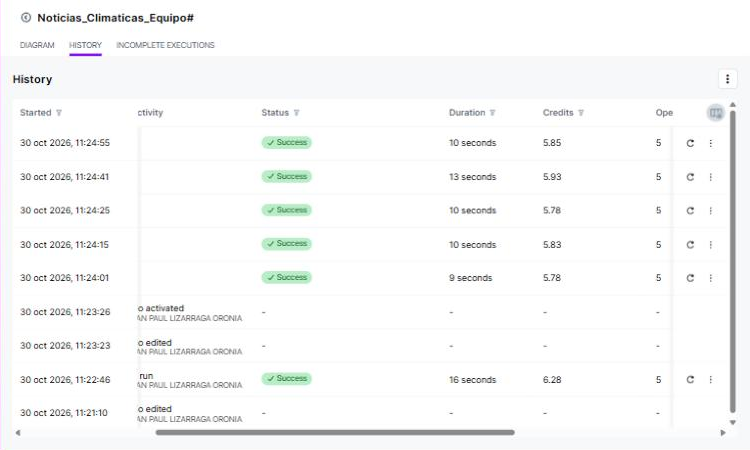
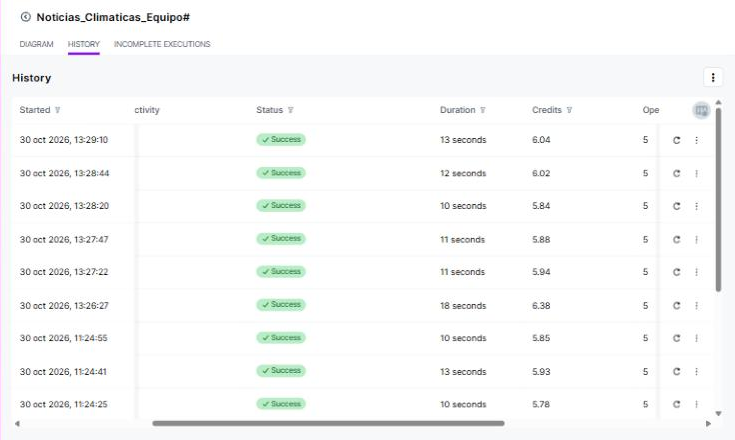
Agrega capturas de la página publicada, historial y resultados actualizados
Claude-Session: https://claude.ai/code/session_01X3CYwDySQS7y4qng3ZaQQM

diff --git a/README.md b/README.md
@@ -125,7 +125,7 @@ La página se generó con IA usando el prompt de la Actividad 3. Es un solo arch
 
 ## 6. Prueba de los 6 temas
 
-Se probaron los 6 temas desde la página publicada en GitHub Pages. Todos respondieron con el formato pedido, en **9 a 14 segundos**.
+Primero se probaron los 6 temas durante la construcción (11:24 h) y después **desde la página publicada en GitHub Pages** (13:26 h). Todos respondieron en **10 a 18 segundos**. Las capturas son de la página publicada.
 
 ![Buscando y resumiendo noticias](imagenes/03_buscando_noticias.png)
 
@@ -140,12 +140,23 @@ Se probaron los 6 temas desde la página publicada en GitHub Pages. Todos respon
 
 | Tema | De qué trató el resumen | ¿Qué puedo hacer yo? (IA) |
 |------|-------------------------|---------------------------|
-| cambio climático | Leyes en el Senado, muertes por calor y efectos en la salud y la economía (chocolate y El Niño). | Proponer en el campus ahorro de energía y reducción de residuos. |
-| huracanes Pacífico mexicano | La tormenta Vance y su trayectoria hacia Sinaloa, y la rápida intensificación de huracanes en el Pacífico. | Difundir las recomendaciones de Protección Civil y tener un plan de emergencia. |
-| deforestación México | Los 85.3 millones de dólares del Fondo Verde para el Clima y las 178,000 ha deforestadas al año. | Proponer un proyecto de reforestación cerca del campus. |
-| reciclaje | Proyectos universitarios, programas oficiales y el intercambio de basura por pasajes ("Recarga Verde"). | Organizar una campaña de reciclaje en la escuela. |
-| energías renovables México | La meta de 38 % de energía limpia para 2030 y nuevos proyectos renovables en evaluación. | Crear un club de energías renovables en el campus. |
-| sequía Sinaloa | Suspensión del suministro de agua, reparto de agua potable y programas contra la sequía. | Campaña de ahorro de agua y detección de fugas en el campus. |
+| cambio climático | Salud pública, ciudades, economía y el papel de los jóvenes; muertes por calor y el chocolate en Día de Muertos. | Participar en un proyecto de sensibilización climática en el campus. |
+| huracanes Pacífico mexicano | La tormenta Vance y su trayectoria, la rápida intensificación de huracanes y la posible formación de Winnie. | Hacer un simulacro o un plan de acción ante huracanes con la familia. |
+| deforestación México | Los 85.3 millones de dólares del Fondo Verde para el Clima y las 178,000 ha deforestadas al año. | Ser voluntario en un programa de reforestación. |
+| reciclaje | Proyectos universitarios, programas oficiales, el intercambio de basura por pasajes ("Recarga Verde") y reciclaje en minería y hostelería. | Participar en un programa de reciclaje del campus o la comunidad. |
+| energías renovables México | La meta de 38 % de energía limpia para 2030, inversiones y proyectos en evaluación ambiental. | Evaluar el consumo de energía del campus y proponer medidas de eficiencia. |
+| sequía Sinaloa | Suspensión del suministro de agua, reparto de agua potable en 16 municipios y programas contra la sequía. | Ahorrar agua en casa y en el campus y reportar fugas. |
+
+### Errores de formato de la IA
+
+Aunque las instrucciones pedían un formato fijo, en la prueba desde la página publicada la IA cometió varios errores:
+
+- En **4 de los 6 temas agregó una "noticia 6"**, aunque el RSS solo trae 5. En *huracanes* repitió una nota y en *reciclaje* escribió "[Sin título específico adicional en la lista]". En *sequía Sinaloa* puso "(Se puede considerar como referencia adicional)" y en *cambio climático* "Current date – noticia adicional: ENLACE". Esto rompe la regla de **no agregar noticias que no estén en la lista**.
+- En *cambio climático* copió literalmente el texto de la plantilla, **"1 línea explicando por qué importa"**, en lugar de explicarlo.
+- En *deforestación* puso el enlace en la misma línea que la explicación. Por eso la página no lo convirtió en enlace, porque solo convierte las líneas que **empiezan** con `http`.
+- En *reciclaje* dejó un pedazo de enlace suelto después de la noticia 4.
+
+En la primera prueba de la mañana estos errores casi no aparecieron. La misma IA con las mismas instrucciones no siempre responde igual.
 
 ## 7. Verificación de la IA contra las fuentes
 
@@ -161,11 +172,11 @@ De 3 temas distintos se abrió una noticia original y se comparó con lo que dij
 - En la sequía la IA **exageró**: 26 % no es "gran parte", y cambió el sentido de una nota que habla de mejora.
 - En la deforestación fue fiel, pero **no dio las cifras**; solo dijo que la nota "aporta una cifra". Además, 3 de las 5 noticias eran la misma (los 85.3 millones de dólares) publicada por distintos medios.
 - Varias noticias **no eran del día**: la de la sequía era de julio y la de la deforestación de agosto. Google News ordena el RSS por relevancia, no por fecha, y la IA las presentó como "noticias recientes".
-- En *cambio climático*, un enlace salió cortado al final, así que puede no abrir.
+- En la segunda prueba (desde la página publicada) la IA describió mejor la sequía: "a pesar de mejoras, una parte significativa continúa bajo sequía". La misma noticia puede resumirse bien o mal según la ejecución.
 
 ### Créditos
 
-Según el historial del escenario, cada consulta consume **5 operaciones** y entre **5.78 y 5.93 créditos**, unos **5.8 por tema**. Tarda de 9 a 13 segundos. La primera prueba con **Run once** gastó 6.28 créditos.
+Según el historial del escenario, cada consulta consume **5 operaciones** y entre **5.78 y 6.38 créditos**, unos **5.9 por tema**. Tarda de 9 a 18 segundos. La primera prueba con **Run once** gastó 6.28 créditos. En total, las 12 consultas más la prueba con Run once gastaron unos 77 créditos.
 
 ![Historial del escenario con los créditos por consulta](imagenes/10_historial_creditos.png)
 
@@ -175,7 +186,7 @@ Según el historial del escenario, cada consulta consume **5 operaciones** y ent
 **Reciclaje** tuvo más noticias en la semana (90), seguido de **cambio climático** (82). Los que menos tuvieron fueron **sequía Sinaloa** (3) y **deforestación México** (6). Otros temas como *olas de calor México*, *desertificación* o *manglares Sinaloa* no tuvieron ninguna. Los medios cubren más los temas generales y los que tienen una noticia del momento, como un premio, una ley o una tormenta. Los problemas lentos y locales, como la sequía o la pérdida de bosques y manglares, casi no aparecen, aunque nos afectan todos los días. La atención de los medios no depende de qué tan grave es un problema, sino de qué tan "noticia" es ese día.
 
 **2. ¿Los resúmenes de la IA fueron fieles a las noticias originales? ¿Qué riesgos tiene difundir información resumida por IA sin verificarla?**
-**En su mayoría sí**: de 3 noticias verificadas, una fue fiel, otra fiel pero vaga y otra **exagerada**: dijo que "gran parte" de Sinaloa sigue seca cuando la fuente dice 26 % y habla de una mejora. Además, presentó como recientes noticias de hace meses. El riesgo es difundir datos exagerados o viejos como si fueran de hoy. Eso puede causar alarma o desconfianza, y al compartirse sin revisar el error se multiplica. Por eso la página muestra los enlaces a las fuentes: el resumen sirve para orientar, pero hay que leer la nota original antes de compartir un dato.
+**En su mayoría sí**: de 3 noticias verificadas, una fue fiel, otra fiel pero vaga y otra **exagerada**: dijo que "gran parte" de Sinaloa sigue seca cuando la fuente dice 26 % y habla de una mejora. Además, presentó como recientes noticias de hace meses y, en la página publicada, **inventó una sexta "noticia"** en 4 de los 6 temas. El riesgo es difundir datos exagerados o viejos como si fueran de hoy. Eso puede causar alarma o desconfianza, y al compartirse sin revisar el error se multiplica. Por eso la página muestra los enlaces a las fuentes: el resumen sirve para orientar, pero hay que leer la nota original antes de compartir un dato.
 
 **3. ¿Qué tan presentes estuvieron los temas locales (Sinaloa, Mazatlán) frente a los nacionales o globales?**
 Muy poco. De los temas locales del catálogo, *sequía Sinaloa* tuvo 3 noticias en la semana, *Mazatlán medio ambiente* 2, *pesca sustentable Sinaloa* 1 y *manglares Sinaloa* ninguna. En cambio, los temas nacionales o globales tuvieron decenas. Lo local apareció sobre todo por algo urgente, como la tormenta Vance acercándose a Sinaloa dentro del tema de huracanes. Esto muestra que la información ambiental de nuestra región depende de pocos medios locales, como Noroeste, y que una herramienta así ayuda a encontrarla.
@@ -200,7 +211,7 @@ Muy poco. De los temas locales del catálogo, *sequía Sinaloa* tuvo 3 noticias 
 
 ## 10. Conclusión
 
-Con Make, un feed RSS y un agente de IA se construyó, sin programar el flujo, una página que resume las noticias ambientales del día en unos 10 segundos y con unos 5.8 créditos por consulta. El **Text aggregator** fue clave para que la IA trabajara una sola vez por tema. La práctica también mostró los límites de la IA: casi siempre resumió bien, pero exageró un dato de la sequía en Sinaloa y presentó noticias viejas como recientes. Un ingeniero en sistemas puede ayudar a su comunidad haciendo accesible la información ambiental, siempre que la herramienta muestre las fuentes y la información se verifique antes de difundirla.
+Con Make, un feed RSS y un agente de IA se construyó, sin programar el flujo, una página que resume las noticias ambientales del día en unos 12 segundos y con unos 5.9 créditos por consulta. El **Text aggregator** fue clave para que la IA trabajara una sola vez por tema. La práctica también mostró los límites de la IA: casi siempre resumió bien, pero exageró un dato de la sequía en Sinaloa, presentó noticias viejas como recientes y a veces agregó noticias que no existían o rompió el formato. Un ingeniero en sistemas puede ayudar a su comunidad haciendo accesible la información ambiental, siempre que la herramienta muestre las fuentes y la información se verifique antes de difundirla.
 
 ## 11. Fuentes
 
